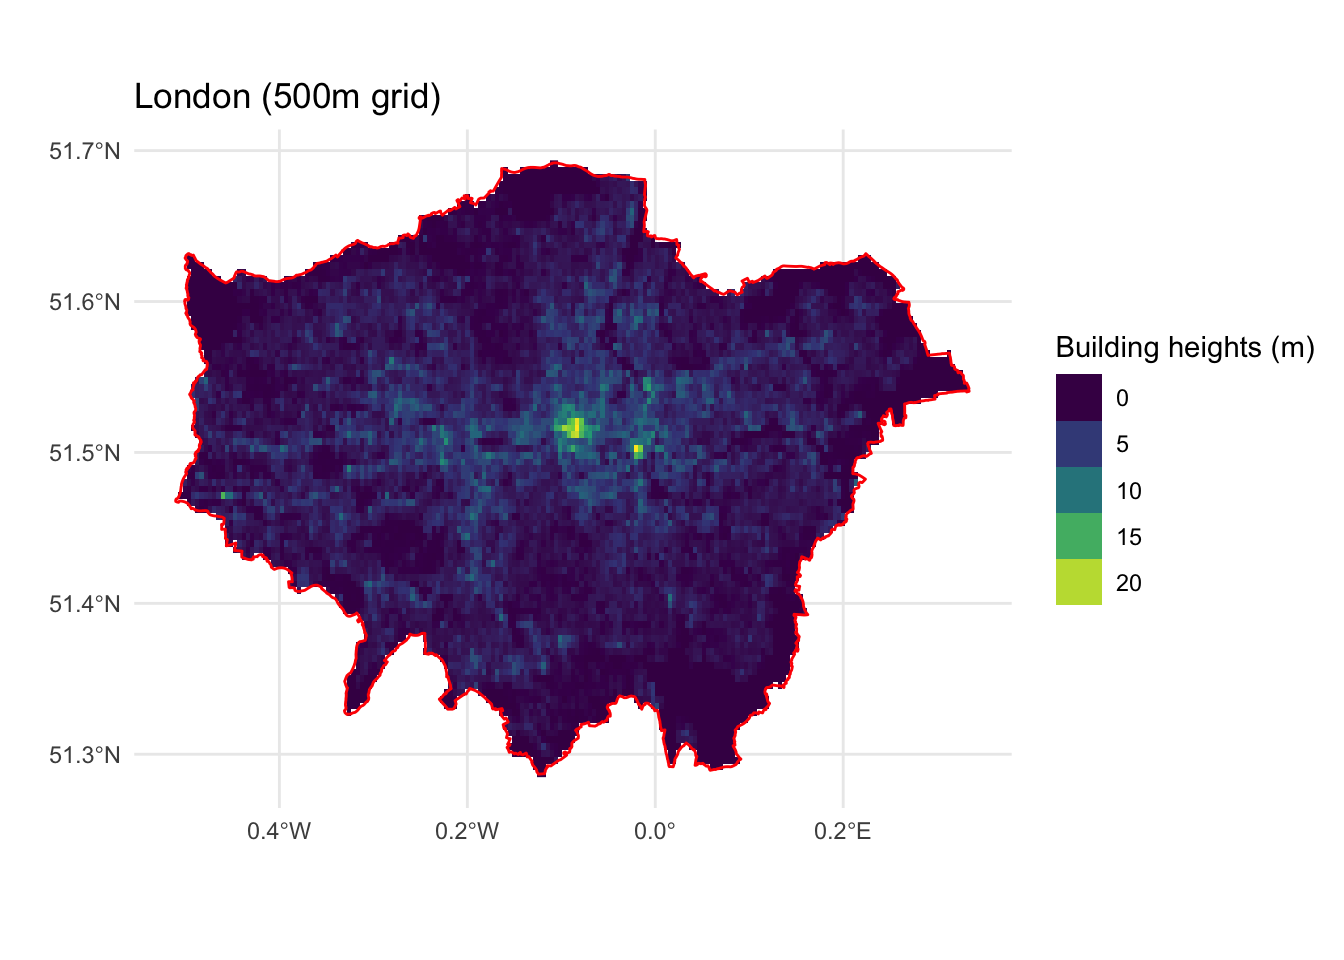
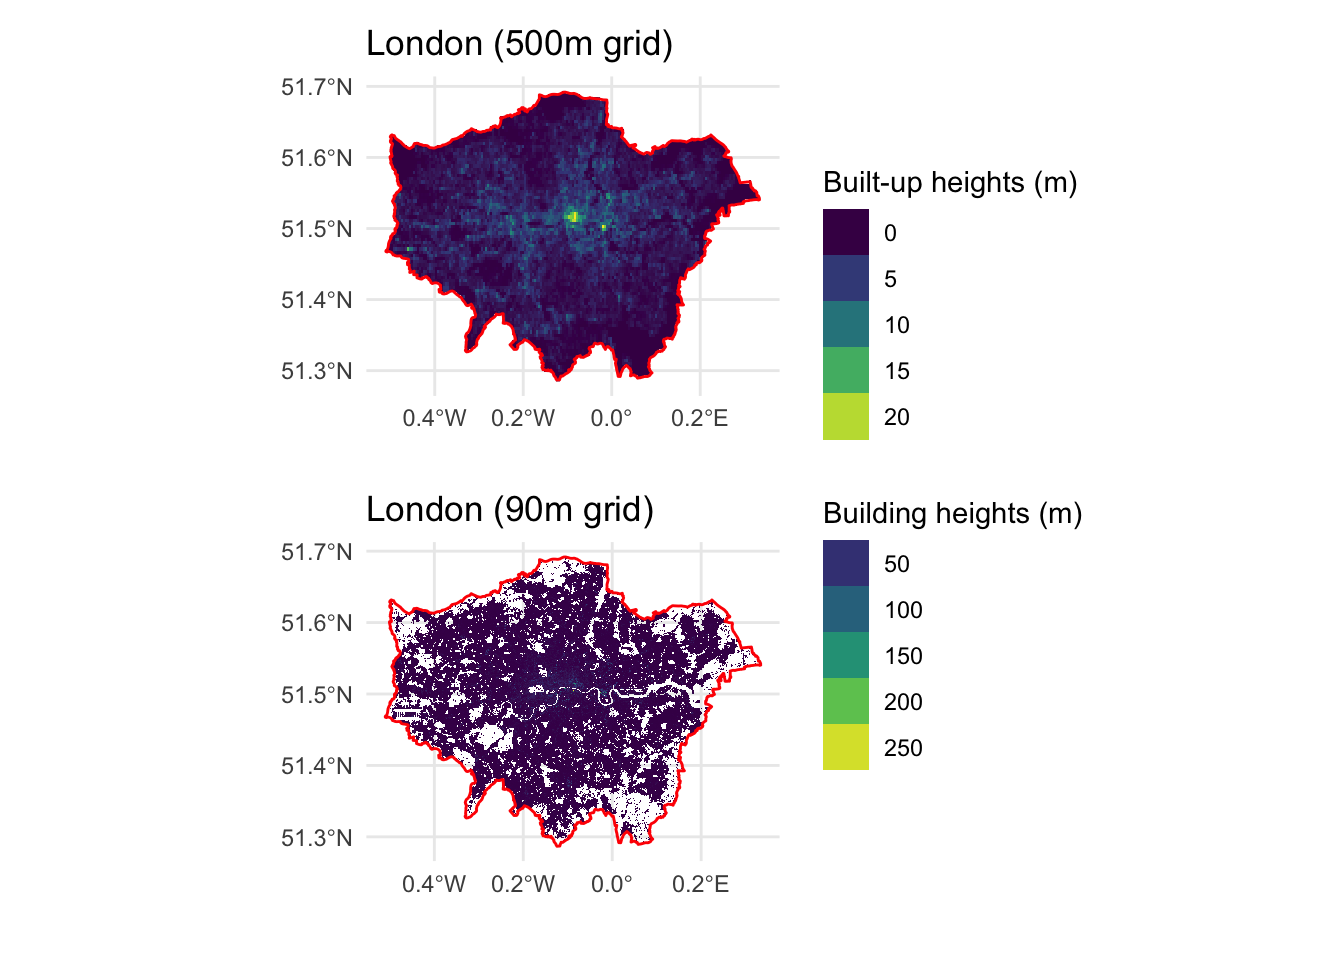
TG-1. Finishing basic narrative of post. Effectively published

diff --git a/_site/posts/bldg-heights-intro/index.html b/_site/posts/bldg-heights-intro/index.html
@@ -80,6 +80,7 @@ div.csl-indent {
   }
 }</script>
 
+  <script src="https://cdn.jsdelivr.net/npm/mathjax@3/es5/tex-chtml-full.js" type="text/javascript"></script>
 
 <link rel="stylesheet" href="styles.css">
 </head>
@@ -173,16 +174,19 @@ div.csl-indent {
 
 </header>
 
-<section id="m-grids" class="level2">
-<h2 class="anchored" data-anchor-id="m-grids">500m grids</h2>
+<p>Building heights are an important indicator for various urban analyses - from population / m<span class="math inline">\(^{2}\)</span> to Floor Area Ratio (FAR). However, getting this data is not easy. Building polygons in OpenStreetMap usually don’t have this attribute unless it was part of a bulk upload and only some cities provide open data of building footprints with heights <span class="citation" data-cites="NYCBuildingHeights"><a href="#ref-NYCBuildingHeights" role="doc-biblioref">[1]</a></span>. With time and skill, a digital elevation model from LIDAR data (or other sources of data) can be used to derive building heights.</p>
+<p>None of these options are useful for a relative beginner in remote sensing interested in exploring urbanism of the Global South. Enter derived open data from academic papers. Here I look two datasets - average building heights in a 500m grid from <span class="citation" data-cites="zhouSatelliteMappingUrban2022"><a href="#ref-zhouSatelliteMappingUrban2022" role="doc-biblioref">[2]</a></span> and 90m grid from <span class="citation" data-cites="eschWorldSettlementFootprint2022"><a href="#ref-eschWorldSettlementFootprint2022" role="doc-biblioref">[3]</a></span>. Both datasets are cropped to the London polygon for further analysis.</p>
+<p>The supplementary information in <span class="citation" data-cites="zhouSatelliteMappingUrban2022"><a href="#ref-zhouSatelliteMappingUrban2022" role="doc-biblioref">[2]</a></span> provides a Figshare link to download a global dataset of average building heights in a 500 m<span class="math inline">\(^{2}\)</span> grid area. The centre of London and the Canary Wharf areas show heights of 20m - which are considerably lower than the heights of actual buildings (100 - 300m), While this dataset is not useful for analysis pertaining to buildings, it is useful for comparing built-up <em>volumes</em> derived from the average <code>built-up</code> heights as done in the paper. The data could also be useful for demarcating areas with higher proportions of tall buildings vs.&nbsp;medium height vs.&nbsp;single family homes.</p>
+<p>A recent paper by Esch et al. <span class="citation" data-cites="eschWorldSettlementFootprint2022"><a href="#ref-eschWorldSettlementFootprint2022" role="doc-biblioref">[3]</a></span> described a methdology for deriving building heights for the established World Settlement Footprints data suite <span class="citation" data-cites="marconciniUnderstandingCurrentTrends2021"><a href="#ref-marconciniUnderstandingCurrentTrends2021" role="doc-biblioref">[4]</a></span>. The higher granularity of this dataset, 90 m<span class="math inline">\(^{2}\)</span>, brings grid average heights much closer to real world building heights. However, the visual patterns of urbanisation at a city scale are lost.</p>
 <div class="cell">
 <div class="cell-output-display">
 <p><img src="index_files/figure-html/unnamed-chunk-3-1.png" class="img-fluid" style="width:100.0%"></p>
 </div>
 </div>
-</section>
-<section id="m-grids-1" class="level2">
-<h2 class="anchored" data-anchor-id="m-grids-1">90m grids</h2>
+<div class="cell">
+
+</div>
+<p>We need to zoom in to borough or MSOA (Middle Super Output Area) to better visualise areas with tall buildings. In City of London, we easily see higher granularity of the cluster around Liverpool Street that contains the Shard, the tallest building in London. Similarly, the zoom over the Canary Wharf business cluster shows the spread of areas with many tall buildings over 100m (list <a href="https://en.wikipedia.org/wiki/Canary_Wharf">here</a>). The value of the grid cell is pretty close to the building heights though not exact as it is still an average and likely that the grid cell doesn’t always overlap fully with the building footprint of a tall building.</p>
 <div class="cell">
 <div class="cell-output-display">
 <p><img src="index_files/figure-html/unnamed-chunk-5-1.png" class="img-fluid" style="width:100.0%"></p>
@@ -190,8 +194,19 @@ div.csl-indent {
 </div>
 <section id="references" class="level3">
 <h3 class="anchored" data-anchor-id="references">References</h3>
-<div id="refs" role="doc-bibliography">
-
+<div id="refs" class="references csl-bib-body" role="doc-bibliography">
+<div id="ref-NYCBuildingHeights" class="csl-entry" role="doc-biblioentry">
+<div class="csl-left-margin">[1] </div><div class="csl-right-inline"><span>“<span>NYC Building Heights</span>.”</span> <a href="https://data.cityofnewyork.us/Housing-Development/Building-Heights/pffy-49n3">https://data.cityofnewyork.us/Housing-Development/Building-Heights/pffy-49n3</a> (accessed Mar. 18, 2023).</div>
+</div>
+<div id="ref-zhouSatelliteMappingUrban2022" class="csl-entry" role="doc-biblioentry">
+<div class="csl-left-margin">[2] </div><div class="csl-right-inline">Y. Zhou <em>et al.</em>, <span>“Satellite mapping of urban built-up heights reveals extreme infrastructure gaps and inequalities in the <span>Global South</span>,”</span> <em>Proc. Natl. Acad. Sci. U.S.A.</em>, vol. 119, no. 46, p. e2214813119, Nov. 2022, doi: <a href="https://doi.org/10.1073/pnas.2214813119">10.1073/pnas.2214813119</a>.</div>
+</div>
+<div id="ref-eschWorldSettlementFootprint2022" class="csl-entry" role="doc-biblioentry">
+<div class="csl-left-margin">[3] </div><div class="csl-right-inline">T. Esch <em>et al.</em>, <span>“World <span>Settlement Footprint 3D</span> - <span>A</span> first three-dimensional survey of the global building stock,”</span> <em>Remote Sensing of Environment</em>, vol. 270, p. 112877, Mar. 2022, doi: <a href="https://doi.org/10.1016/j.rse.2021.112877">10.1016/j.rse.2021.112877</a>.</div>
+</div>
+<div id="ref-marconciniUnderstandingCurrentTrends2021" class="csl-entry" role="doc-biblioentry">
+<div class="csl-left-margin">[4] </div><div class="csl-right-inline">M. Marconcini, A. Metz- Marconcini, T. Esch, and N. Gorelick, <span>“Understanding <span>Current Trends</span> in <span>Global Urbanisation</span> - <span>The World Settlement Footprint Suite</span>,”</span> <em>giforum</em>, vol. 1, pp. 33–38, 2021, doi: <a href="https://doi.org/10.1553/giscience2021_01_s33">10.1553/giscience2021_01_s33</a>.</div>
+</div>
 </div>
 </section>
 <section id="credits" class="level3">
@@ -199,7 +214,6 @@ div.csl-indent {
 <p>Post photo by <a href="https://unsplash.com/@snapsbyfox?utm_source=unsplash&amp;utm_medium=referral&amp;utm_content=creditCopyText">Roman Fox</a> on <a href="https://unsplash.com/photos/cZGKIJdlYDU?utm_source=unsplash&amp;utm_medium=referral&amp;utm_content=creditCopyText">Unsplash</a></p>
 
 
-</section>
 </section>
 
 </main> <!-- /main -->

diff --git a/_site/index.html b/_site/index.html
@@ -176,7 +176,7 @@ ul.task-list li input[type="checkbox"] {
 
 <div class="quarto-listing quarto-listing-container-default" id="listing-listing">
 <div class="list quarto-listing-default">
-<div class="quarto-post image-right" data-index="0" data-categories="data science,urban,london,buildings" data-listing-date-sort="1679137200000" data-listing-file-modified-sort="1679176427702" data-listing-reading-time-sort="1.145">
+<div class="quarto-post image-right" data-index="0" data-categories="data science,urban,london,buildings" data-listing-date-sort="1679137200000" data-listing-file-modified-sort="1679217652756" data-listing-reading-time-sort="4.155">
 <div class="thumbnail">
 <p><a href="./posts/bldg-heights-intro/index.html"> <img src="./posts/bldg-heights-intro/image.jpg" class="thumnail-image"> </a></p>
 </div>
@@ -205,7 +205,7 @@ buildings
 </div>
 <a href="./posts/bldg-heights-intro/index.html">
 <div class="listing-description">
-Post photo by Roman Fox on Unsplash
+Building heights are an important indicator for various urban analyses - from population / m<span class="math inline">\(^{2}\)</span> to Floor Area Ratio (FAR). However, getting this data is not easy. Building polygons in OpenStreetMap usually don’t have this attribute unless it was part of a bulk…<span class="citation" data-cites="NYCBuildingHeights"></span>
 </div>
 </a>
 </div>
